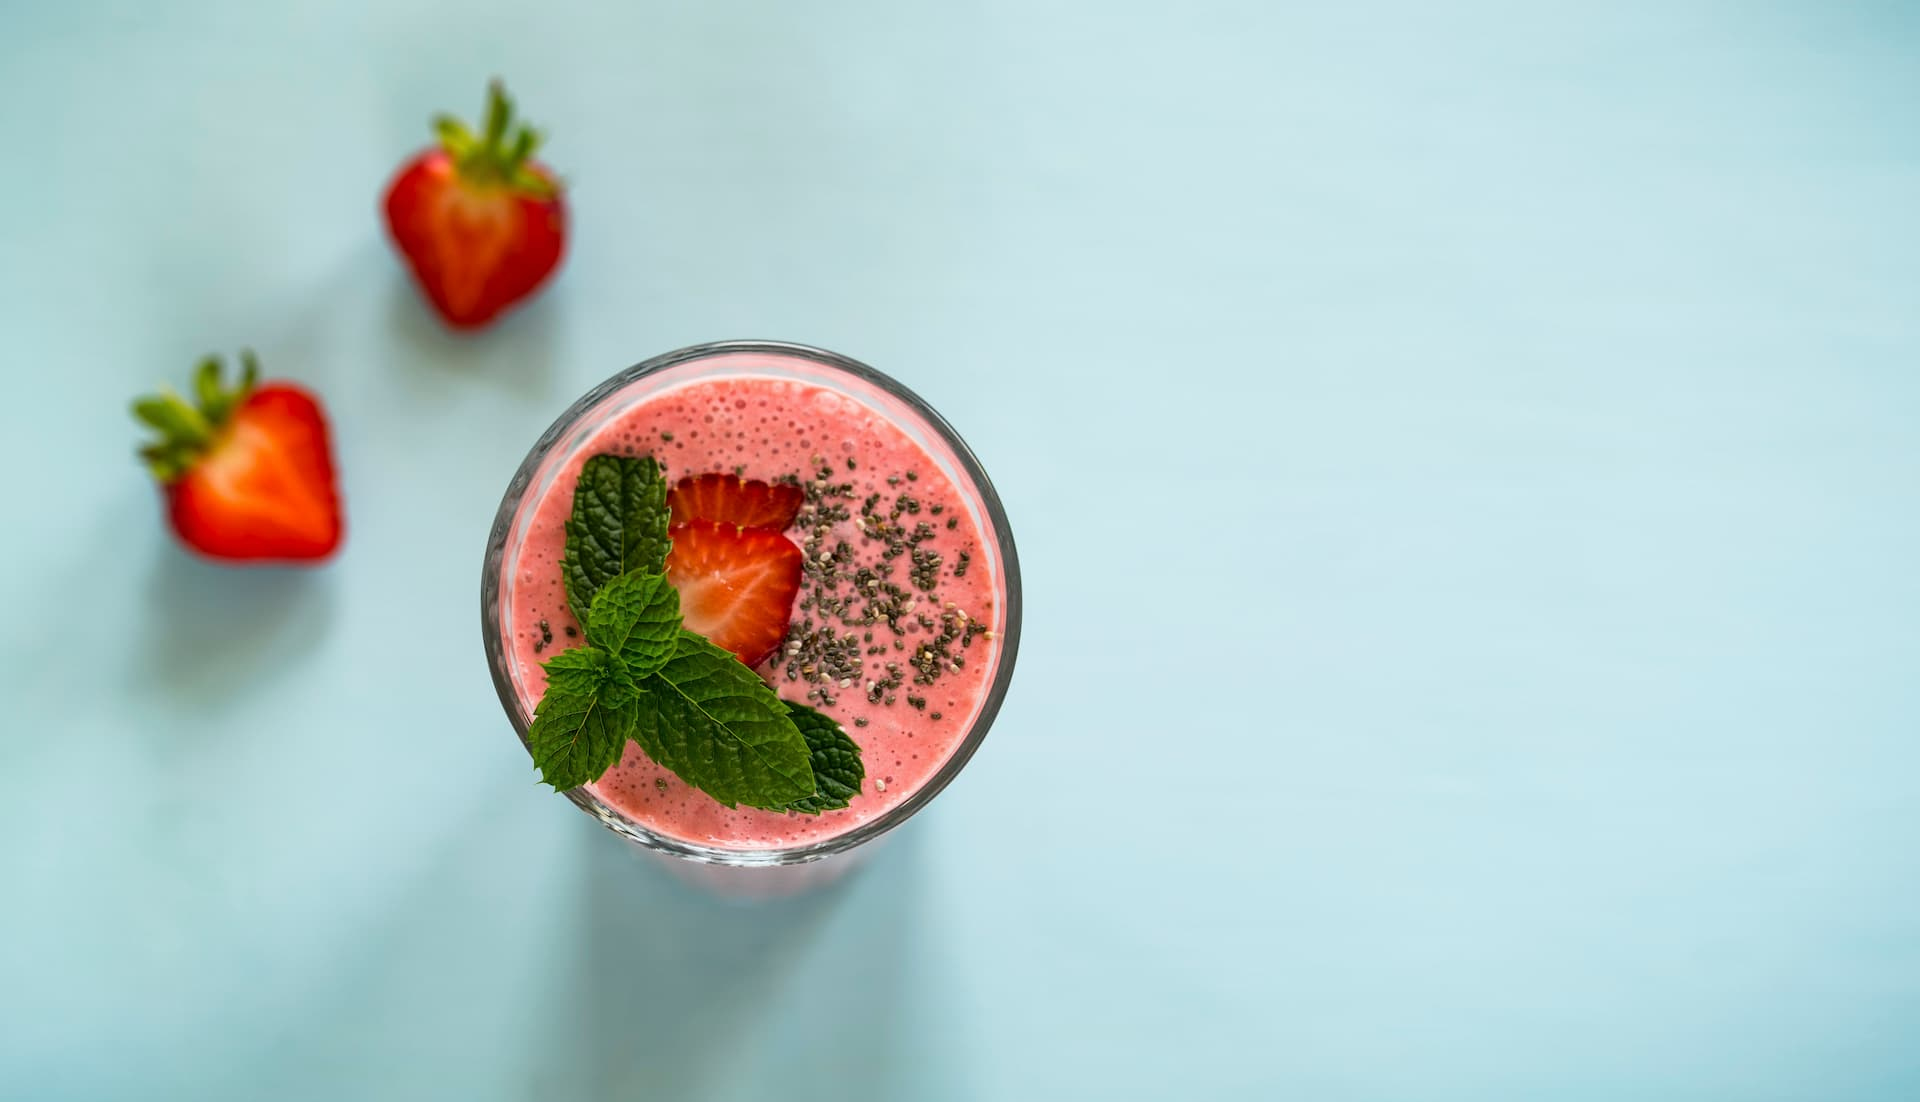
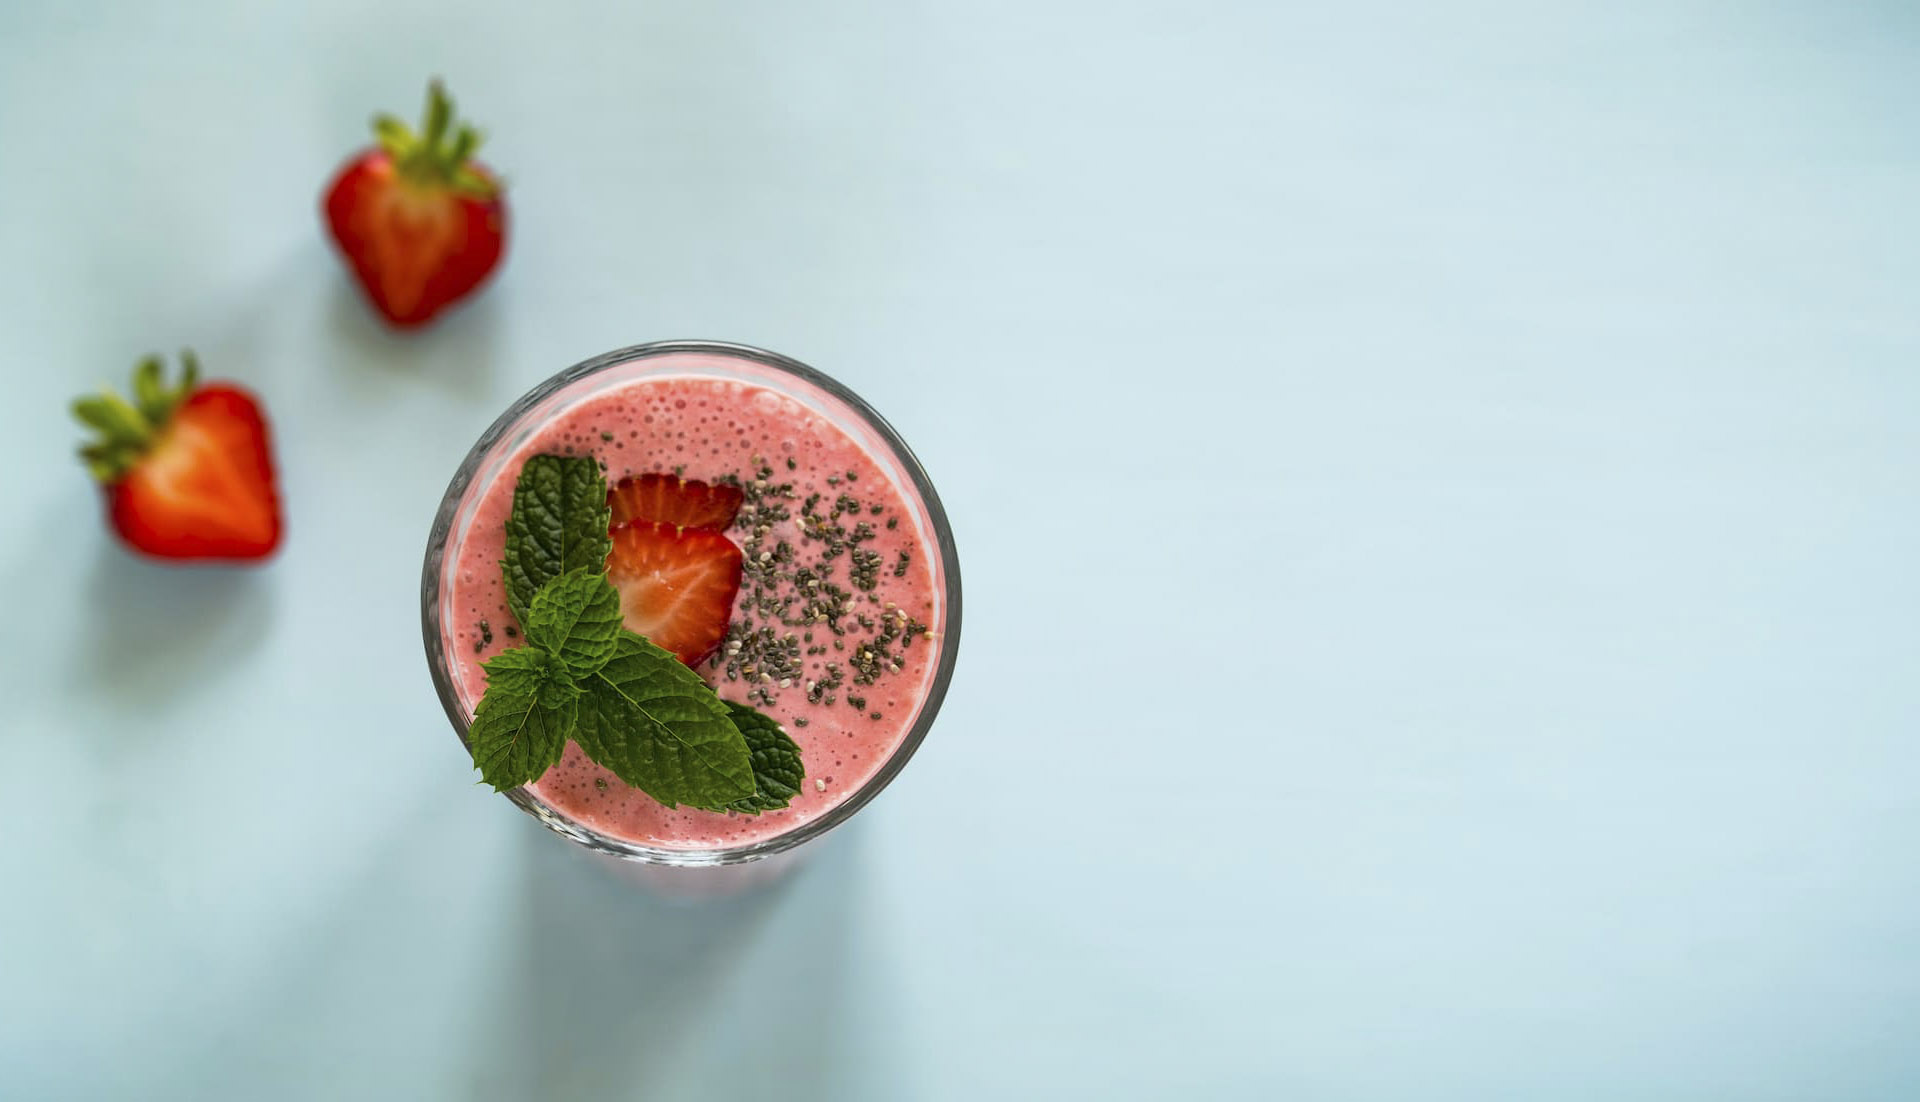
fixes and hero responsive

Changed region(s): [[0.0312, 0.0617, 0.5312, 1.0]]

diff --git a/resources/js/front/components/card-accordion.js b/resources/js/front/components/card-accordion.js
@@ -4,7 +4,7 @@ function cardAccordion() {
 
     cards.forEach((card) => {
         const btn = card.querySelector(".accordion-btn");
-        btn.addEventListener("click", () => {
+        btn?.addEventListener("click", () => {
             cards.forEach((item) => {
                 if (item !== card) {
                     item.classList.remove("show");
@@ -13,7 +13,6 @@ function cardAccordion() {
             card.classList.toggle("show");
         });
     });
-    console.log("veikia");
 }
 
 export default cardAccordion;

diff --git a/resources/css/front/app.css b/resources/css/front/app.css
@@ -44,7 +44,7 @@ html {
 
 @layer components {
     .primary-heading {
-        @apply font-['Yeseva_One'] text-cyan-800 text-[44px];
+        @apply font-['Yeseva_One'] text-cyan-800 text-[35px] md:text-[44px];
     }
 
     .primary-btn {

diff --git a/resources/views/pages/front/home.blade.php b/resources/views/pages/front/home.blade.php
@@ -2,18 +2,25 @@
 
     {{-- hero section --}}
     <section
-        class="hero bg-[url('/public/assets/img/hero-bg.jpg')] bg-cover bg-no-repeat bg-fixed hero h-[85.5vh] flex items-center relative">
+        class="hero bg-[url('/public/assets/img/hero-bg-mobile.jpg')] md:bg-[url('/public/assets/img/hero-bg.jpg')] bg-cover bg-bottom md:bg-right bg-no-repeat md:bg-fixed h-[96vh] md:h-[85.5vh] flex items-start md:items-center relative">
         <div class="container">
-            <div class=" flex flex-col items-end gap-4">
-                <h1 class="primary-heading text-right">Atrask naujus skonius!</h1>
-                <p class="font-['Josefin_Sans'] lg:w-[40%] text-right mb-4 text-cyan-900">Curabitur aliquet quam amet,
+            <div class=" flex flex-col items-center md:items-end gap-4">
+                <h1
+                    class="primary-heading text-center md:text-right w-full lg:w-[50%] xl:w-full leading-tight text-[35px] lg:text-[44px]">
+                    Atrask naujus skonius!
+                </h1>
+                <p
+                    class="font-['Josefin_Sans'] w-full md:w-[67%] lg:w-[40%] text-center md:text-right mb-4 text-cyan-900">
+                    Curabitur
+                    aliquet quam
+                    amet,
                     consectetur
                     adipiscing elit lorem ut libero malesuada luctus et ultrices posuere cubilia feugiat adipiscing elit
                     ac diam sit amet.</p>
-                <a href="{{ route('restaurants-index') }}" class="primary-btn">Restoranai</a>
+                <a href="{{ route('restaurants-index') }}" class="primary-btn inline-block">Restoranai</a>
             </div>
             <a href="#popular-meals"
-                class="text-3xl opacity-85 text-cyan-800 absolute right-[50%] translate-x-1/2 bottom-8 animate-pulse"><i
+                class="hidden md:block text-3xl opacity-85 text-cyan-800 absolute right-[50%] translate-x-1/2 bottom-8 animate-pulse"><i
                     class="fa-solid fa-angles-down"></i></a>
         </div>
     </section>
@@ -49,10 +56,10 @@
                             </p>
                         </div>
                     </div>
-                    {{-- <a href="{{ route('single-meal', $popularMeal) }}"
+                    <a href="{{ route('single-meal', $popularMeal) }}"
                         class="card-btn self-end bg-cyan-900 hover:bg-[#124253] py-3 w-full uppercase text-center cursor-pointer text-white transition-all inline-block">
                         Peržiūrėti
-                    </a> --}}
+                    </a>
                 </article>
             @empty
                 <p>Nepridėtas nė vienas patiekalas.</p>
@@ -62,26 +69,31 @@
 
 
     {{-- slider section --}}
-    <section class="slider-section relative p-0">
-        <div class="slider-container">
-            <div class="slide">
-                <h3 class="slider-heading">Slide 1</h3>
-                <img src="/assets/img/slide-1.jpg" alt="abstraction image" class="slide-img">
+    <section class="slider-section p-0">
+        <h2 class="primary-heading text-center mb-14 mt-5">Naujausi restoranai</h2>
+        <div class="relative">
+            <div class="slider-container ">
+                <div class="slide">
+                    <h3 class="slider-heading">Slide 1</h3>
+                    <img src="/assets/img/slide-1.jpg" alt="abstraction image" class="slide-img">
+                </div>
+                <div class="slide">
+                    <h3 class="slider-heading">Slide 2</h3>
+                    <img src="/assets/img/slide-2.jpg" alt="abstraction image" class="slide-img">
+                </div>
+                <div class="slide">
+                    <h3 class="slider-heading">Slide 3</h3>
+                    <img src="/assets/img/slide-3.jpg" alt="abstraction image" class="slide-img">
+                </div>
             </div>
-            <div class="slide">
-                <h3 class="slider-heading">Slide 2</h3>
-                <img src="/assets/img/slide-2.jpg" alt="abstraction image" class="slide-img">
+            <div class="btns-container">
+                <button type="button"
+                    class="prevBtn pl-5 text-white text-2xl absolute left-0 top-1/2 -translate-y-1/3"><i
+                        class="fa-solid fa-chevron-left"></i></button>
+                <button type="button"
+                    class="nextBtn pr-5 text-white text-2xl absolute right-0 top-1/2 -translate-y-1/3"><i
+                        class="fa-solid fa-chevron-right"></i></button>
             </div>
-            <div class="slide">
-                <h3 class="slider-heading">Slide 3</h3>
-                <img src="/assets/img/slide-3.jpg" alt="abstraction image" class="slide-img">
-            </div>
-        </div>
-        <div class="btns-container">
-            <button type="button" class="prevBtn pl-5 text-white text-2xl absolute left-0 top-1/2 -translate-y-1/3"><i
-                    class="fa-solid fa-chevron-left"></i></button>
-            <button type="button" class="nextBtn pr-5 text-white text-2xl absolute right-0 top-1/2 -translate-y-1/3"><i
-                    class="fa-solid fa-chevron-right"></i></button>
         </div>
     </section>
 
@@ -129,10 +141,11 @@
     <section class="items bg-gray-100" id="contacts">
         <div class="container">
 
-            <form method="post" class="w-1/2 mx-auto" action="{{ route('send-email') }}">
+            <form method="post" class="w-full sm:w-3/4 lg:w-1/2 mx-auto"
+                action="{{ route('send-email') . '#contacts' }}">
                 @csrf
 
-                <h2 class="primary-heading text-center">Susisiekite</h2>
+                <h2 class="primary-heading text-center mb-4">Susisiekite</h2>
 
                 <!-- Success message -->
                 @if (session()->has('success'))
@@ -142,7 +155,7 @@
                 @endif
 
                 <x-form.label for="name" :value="__('Vardas')" />
-                <x-form.input id="name" class="block mt-1 w-full mb-4 text-gray-500" type="text" name="name"
+                <x-form.input id="name" class="block mt-1 w-full mb-6 text-gray-500" type="text" name="name"
                     :value="old('name')" />
 
                 @error('name')

diff --git a/resources/views/pages/front/restaurants.blade.php b/resources/views/pages/front/restaurants.blade.php
@@ -15,8 +15,7 @@
                                 <p class="text-xl font-['Yeseva_One'] text-cyan-900 mb-3">{{ $restaurant->title }}
                                 </p>
                                 <div class="grid grid-cols-1 lg:grid-cols-[55%,_40%] items-start justify-between gap-3 ">
-                                    <div class="grid gap-2 justify-center items-start">
-
+                                    <div>
                                         @if (isset($restaurant->img))
                                             <img src="{{ asset($restaurant->img) }}" alt="meal photo"
                                                 class="w-[300px] rounded-xl">
@@ -25,11 +24,16 @@
                                                 class="w-[300px] rounded-xl">
                                         @endif
                                     </div>
-                                    <div class="grid gap-2 justify-center items-start text-cyan-900">
-                                        <p><i class="fa-solid fa-location-dot w-5"></i>
-                                            {{ $restaurant->address }}</p>
-                                        </p>
-                                        <p>Virtuvė: {{ $restaurant->menu->title }}</p>
+                                    <div class="grid gap-2 justify-center items-between text-cyan-900 h-[100%]">
+                                        <div>
+                                            <p class="mb-2"><i class="fa-solid fa-location-dot w-5"></i>
+                                                {{ $restaurant->address }}</p>
+                                            </p>
+                                            <p><i class="fa-solid fa-bowl-rice w-6"></i>Virtuvė:
+                                                {{ $restaurant->menu->title }}</p>
+                                        </div>
+                                        <a href="{{ route('meals-index') . '?restaurant_id=' . $restaurant->id }}"
+                                            class="primary-btn self-end justify-self-start py-1.5 inline-block">Produktai</a>
                                     </div>
                                 </div>
                             </div>

diff --git a/app/Http/Controllers/FrontController.php b/app/Http/Controllers/FrontController.php
@@ -28,12 +28,11 @@ class FrontController extends Controller
     {
         $restaurants = Restaurant::all();
 
-        $popularMeals = DB::table('orders')
-            ->join('meals', 'meals.id', '=', 'orders.meal_id')
-            ->groupBy('meal_id')
-            ->orderBy('meal_id', 'desc')
-            ->take(3)
-            ->get();
+        $popularMeals = Meal::withCount('orders as orders_count')
+            ->where('id', '>', 0)
+            ->orderBy('orders_count', 'DESC')
+            ->get()
+            ->take(3);
 
         return view('pages.front.home', compact('popularMeals', 'restaurants'));
     }

diff --git a/app/Models/Meal.php b/app/Models/Meal.php
@@ -30,7 +30,7 @@ class Meal extends Model
         return $this->belongsTo(Restaurant::class);
     }
 
-    public function order()
+    public function orders()
     {
         return $this->hasMany(Order::class);
     }
